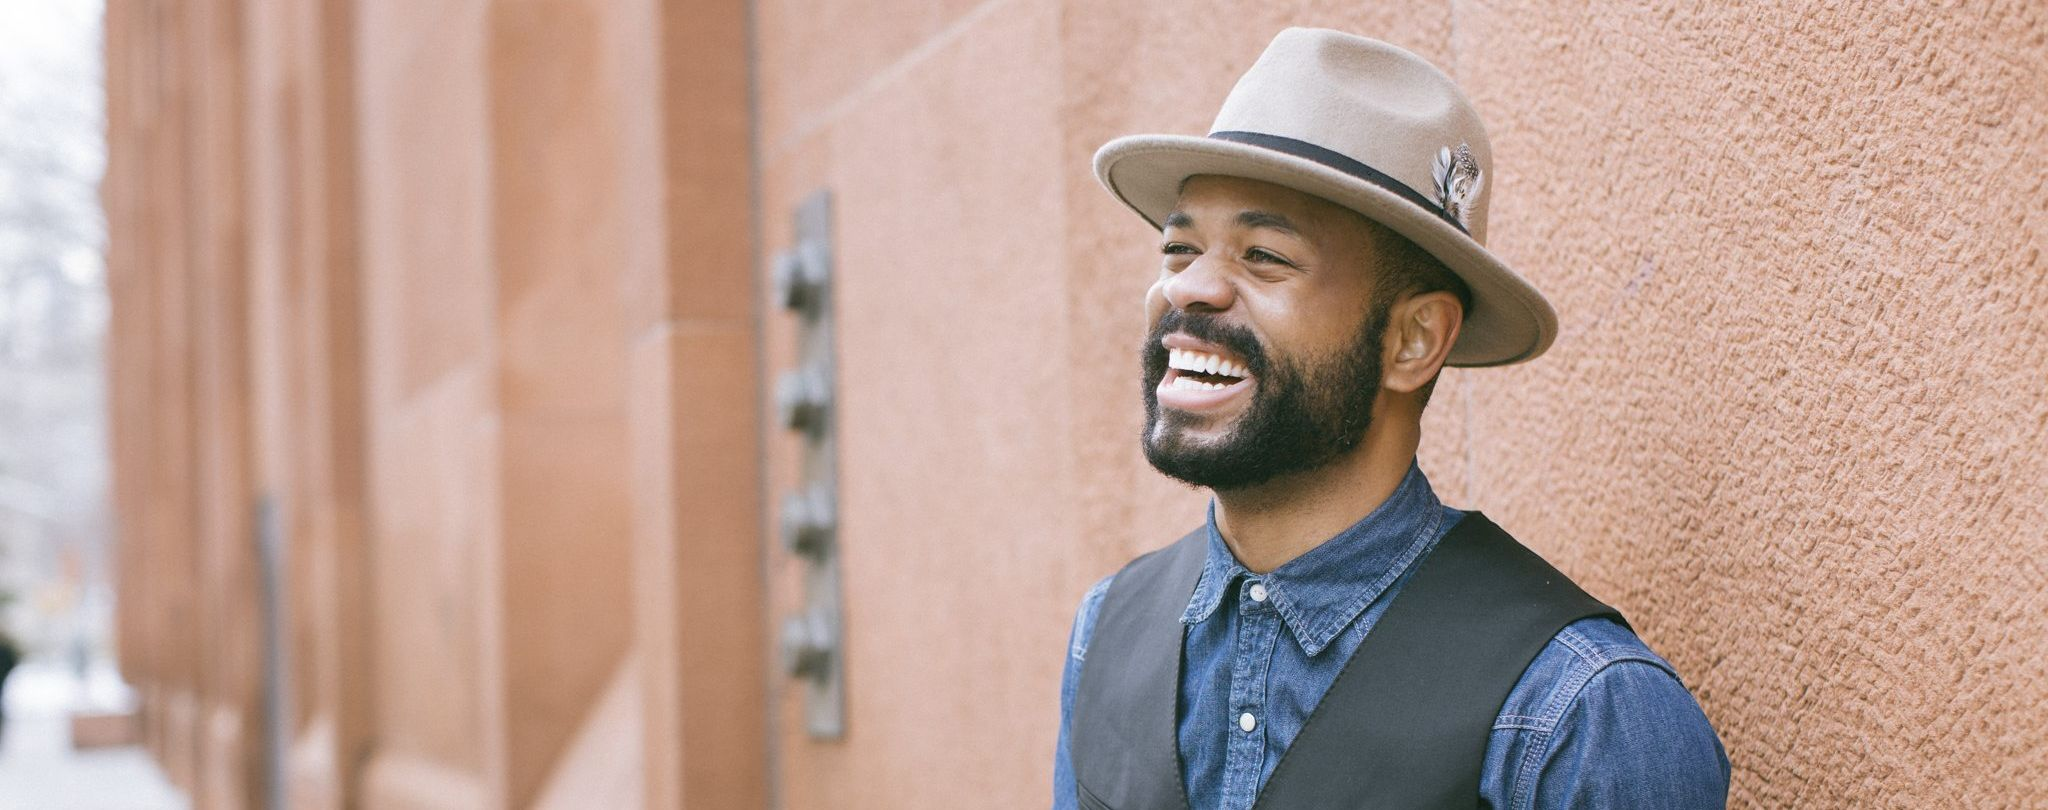
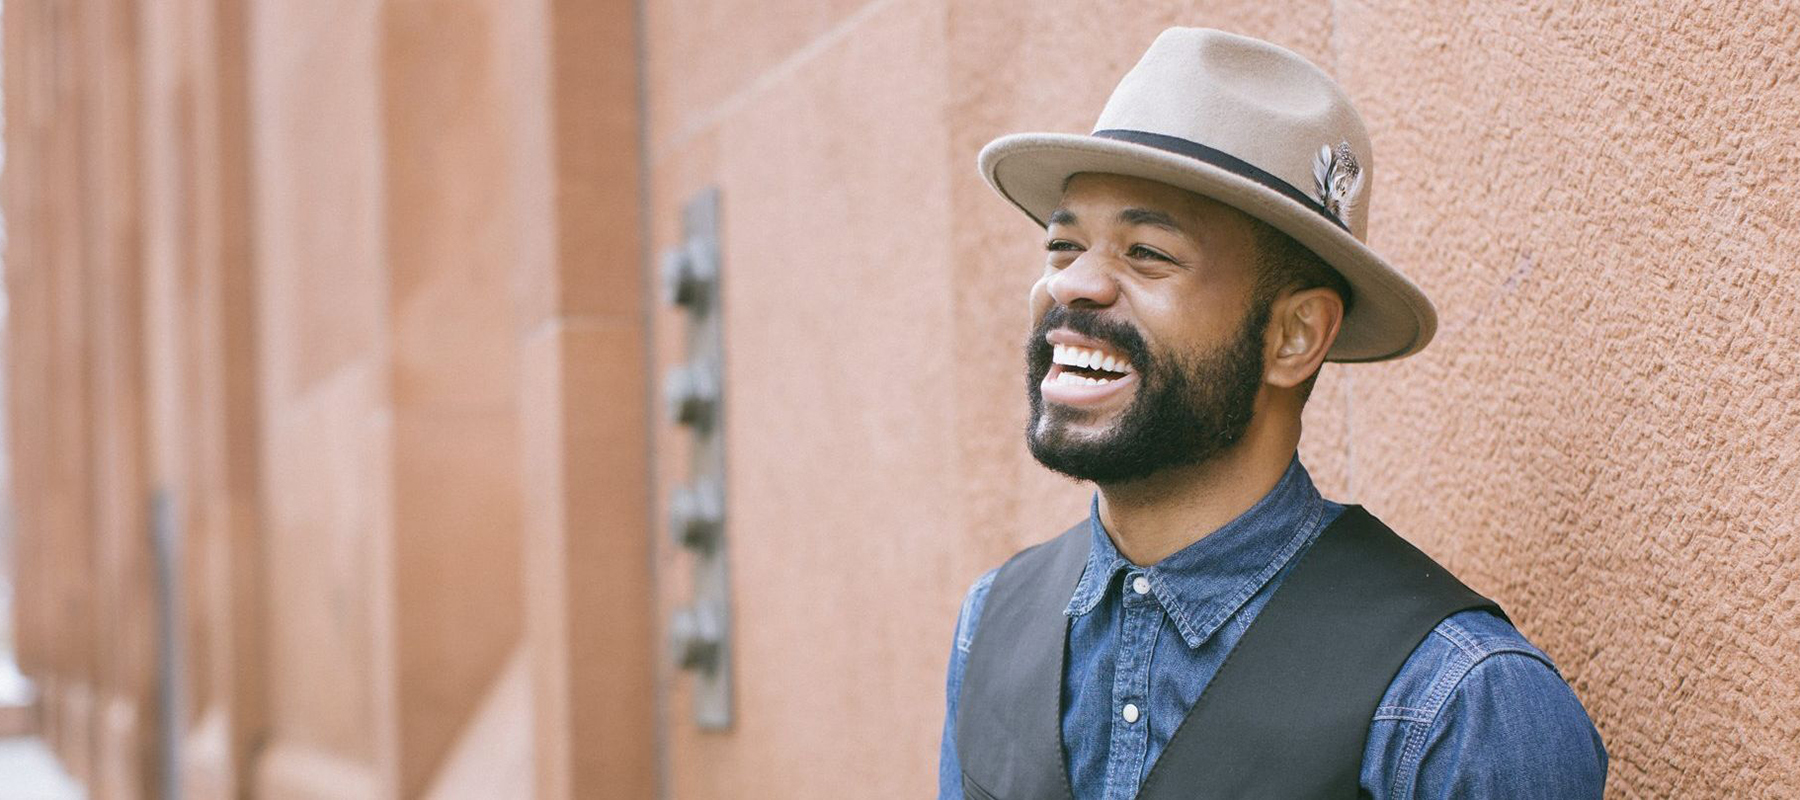
Textos

diff --git a/index.html b/index.html
@@ -53,7 +53,7 @@
                         </div>
                     </div>
                     <div class="carousel-item">
-                        <img src="assets/img/foto4.png" alt="">
+                        <img src="assets/img/foto4_1.png" alt="">
                         <div class="carousel-caption">
                             <p>Viva experiências inesquecíveis</p>
                             <a href="viaje.html" class="btn btn-primary">Saiba mais</a>
@@ -84,8 +84,8 @@
         <div class="container">
             <div class="col-12 ">
                 <h1 class="main-title">Nossa missão</h1>
-                <p>Encontrar lugares ao redor do mundo onde a pessoa negra seja recebida e tratada como qualquer outro ser humano. Buscamos mudar o pensamento da população negra que ela também pode viajar, seja no Brasil ou para o exterior.</p>                  
-                <p>Para nós, viajar e conhecer novas culturas e pessoas é importante.  Trata-se de encontrar espaços de pertencimento, da possibilidade de reconhecer valores, ter respeitada sua cultura e sua identidade – de ser acolhido.</p>
+                <p class="main-paragrafo">Encontrar lugares ao redor do mundo onde a pessoa <strong>negra</strong> seja recebida e tratada como qualquer outro ser humano. Buscamos mudar o pensamento da população negra que ela também pode viajar, seja no Brasil ou para o exterior.</p>                  
+                <p class="main-paragrafo">Para nós, <strong>viajar</strong> e conhecer novas culturas e pessoas é importante.  Trata-se de encontrar espaços de pertencimento, da possibilidade de reconhecer valores, ter respeitada sua cultura e sua identidade – de ser acolhido.</p>
             </div>
         </div>
     </section>
@@ -94,8 +94,8 @@
         <div class="container">
             <div class="col-12">
                 <h1 class="main-title">Nossos valores</h1>
-                <p>Somos uma rede global de anfitriões e viajantes que amam a cultura negra e buscam viver experiências autênticas e inesquecíveis em suas viagens. Somos elos de uma comunidade que tem, agora, uma nova conexão para nos aproximar da nossa história, nossa essência, nossa riqueza.</p>
-                <p>Cada integrante desta rede é uma ponte que nos aproxima do melhor da cultura negra: serviços, estabelecimentos e iniciativas culturais que partilham o propósito de valorizar a a população negra.</p>   
+                <p class="main-paragrafo">Somos uma <strong>global</strong>rede  de <strong>anfitriões</strong> e <strong>viajantes </strong>que amam a cultura negra e buscam viver experiências autênticas e inesquecíveis em suas viagens. Somos elos de uma comunidade que tem, agora, uma nova conexão para nos aproximar da nossa história, nossa essência, nossa riqueza.</p>
+                <p class="main-paragrafo">Cada integrante desta rede é uma ponte que nos aproxima do melhor da cultura negra: serviços, estabelecimentos e iniciativas culturais que partilham o propósito de valorizar a população negra.</p>   
             </div>
         </div>
     </section>

diff --git a/conheca.html b/conheca.html
@@ -37,8 +37,8 @@
     <section class="historia">
         <div class="container">
             <h1 class="main-title">A origem da Blackpackers</h1>
-            <p>Viajar para muitos é um assunto distante, e viajar para o exterior parece impossível. O Blackpackers surgiu para auxiliar as pessoas negras que desejam viajar para os mais diversos lugares.</p>
-            <p>Seja dentro do Brasil ou para o exterior, descubra maneiras que facilitam a sua tão sonhada viagem de férias. Em troca das mais diversas habilidades, fornecemos locais onde as pessoas possam se hospedar e se divetir ao mesmo tempo.</p>
+            <p class="main-paragrafo">Viajar para muitos é um assunto distante, e viajar para o exterior parece impossível. O <strong>Blackpackers</strong> surgiu para auxiliar as pessoas negras que desejam viajar para os mais diversos lugares.</p>
+            <p class="main-paragrafo">Seja dentro do Brasil ou para o exterior, descubra maneiras que facilitam a sua tão sonhada viagem de férias. Em troca das mais diversas <strong>habilidades</strong>, fornecemos locais onde as pessoas possam se hospedar e se divetir ao mesmo tempo.</p>
         </div>
     </section>
 

diff --git a/assets/css/main.css b/assets/css/main.css
@@ -141,6 +141,11 @@ PÁGINA INDEX */
     font-family: 'Bree Serif', serif;
 }
 
+.main-paragrafo {
+   font-size: 1.2em;
+   text-align: justify;
+}
+
 /* MISSÃO */
 
 .missao {
@@ -186,7 +191,7 @@ PÁGINA INDEX */
 
 .arrow-up {
     position: fixed;
-    bottom: 80px;
+    bottom: 15px;
     right: 20px;
     background: rgba(255, 255, 255, 0.5);
     width: 50px;
@@ -381,7 +386,7 @@ PÁGINA BLOG */
 
 .blogCapa {
     background-image: url('../img/capa_blog.jpeg');
-    background-size: contain;
+    background-size: cover;
     /* background-attachment: fixed; */
     min-height: 500px;
 }
